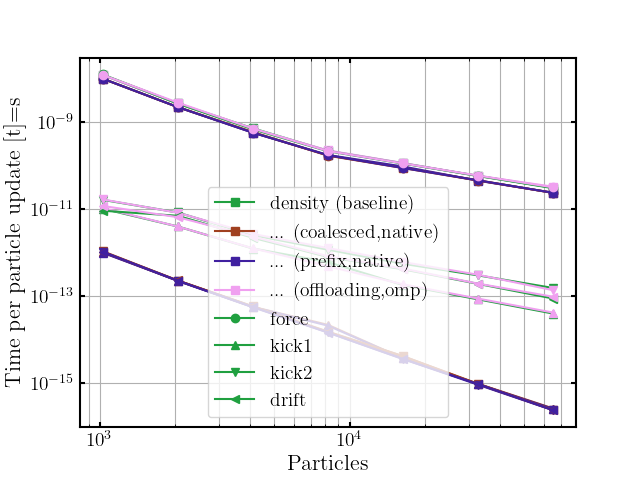
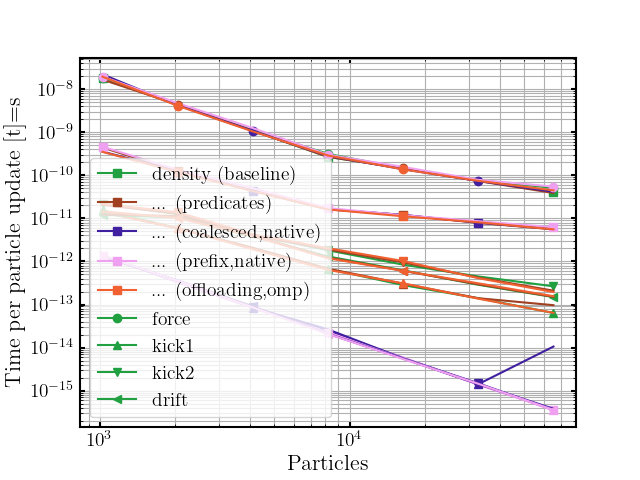
Updated prefix version

diff --git a/benchmarks/swift2/hydro/kernel-throughput/BenchmarkDriver.cpp b/benchmarks/swift2/hydro/kernel-throughput/BenchmarkDriver.cpp
@@ -212,6 +212,13 @@ void runBenchmark(int numberOfParticles) {
       );
       assessKernel(
           [&](int workItem) -> void {
+            ::swift2::kernels::forAllParticlePairs( cellMarker, workItemParticleSet[workItem], workItemParticleSet[workItem], createCoalescedMemoryIndices(), createCoalescedMemoryIndices(), ::swift2::kernels::legacy::forceKernel<globaldata::HydroPart>, ::swift2::kernels::alwaysUpdateInCellKernel<globaldata::HydroPart>, ::swift2::kernels::localParticleCanBeUpdatedInCellKernelFromAnyOtherParticle<globaldata::HydroPart>);
+          },
+          "force (predicates)",
+          numberOfParticles
+      );
+      assessKernel(
+          [&](int workItem) -> void {
             ::swift2::kernels::coalesced::forAllParticlePairs( cellMarker, workItemParticleSet[workItem], workItemParticleSet[workItem], createCoalescedMemoryIndices(), createCoalescedMemoryIndices(), ::swift2::kernels::legacy::forceKernel<globaldata::HydroPart>, ::swift2::kernels::alwaysUpdateInCellKernel<globaldata::HydroPart>, ::swift2::kernels::localParticleCanBeUpdatedInCellKernelFromAnyOtherParticle<globaldata::HydroPart>);
           },
           "force (coalesced,native)",
@@ -244,21 +251,28 @@ void runBenchmark(int numberOfParticles) {
       );
       assessKernel(
         [&](int workItem) -> void {
-          ::swift2::kernels::coalesced::forAllParticlePairs( cellMarker, workItemParticleSet[workItem], workItemParticleSet[workItem], createCoalescedMemoryIndices(), createCoalescedMemoryIndices(), ::swift2::kernels::legacy::densityKernel<globaldata::HydroPart>, ::swift2::kernels::alwaysUpdateInCellKernel<globaldata::HydroPart>, ::swift2::kernels::localParticleCanBeUpdatedInCellKernelFromAnyOtherParticle<globaldata::HydroPart>);
+          ::swift2::kernels::forAllParticlePairs( cellMarker, workItemParticleSet[workItem], workItemParticleSet[workItem], createCoalescedMemoryIndices(), createCoalescedMemoryIndices(), ::swift2::kernels::legacy::densityKernel<globaldata::HydroPart>, ::swift2::kernels::localParticleCanBeUpdatedInCellKernel<globaldata::HydroPart>, ::swift2::kernels::legacy::densityKernelPairEvaluationPredicate<globaldata::HydroPart>);
+        },
+        "density (predicates)",
+        numberOfParticles
+      );
+      assessKernel(
+        [&](int workItem) -> void {
+          ::swift2::kernels::coalesced::forAllParticlePairs( cellMarker, workItemParticleSet[workItem], workItemParticleSet[workItem], createCoalescedMemoryIndices(), createCoalescedMemoryIndices(), ::swift2::kernels::legacy::densityKernel<globaldata::HydroPart>, ::swift2::kernels::localParticleCanBeUpdatedInCellKernel<globaldata::HydroPart>, ::swift2::kernels::legacy::densityKernelPairEvaluationPredicate<globaldata::HydroPart>);
         },
         "density (coalesced,native)",
         numberOfParticles
       );
       assessKernel(
         [&](int workItem) -> void {
-          ::swift2::kernels::coalesced::prefixcheck::forAllParticlePairs( cellMarker, workItemParticleSet[workItem], workItemParticleSet[workItem], createCoalescedMemoryIndices(), createCoalescedMemoryIndices(), ::swift2::kernels::legacy::densityKernel<globaldata::HydroPart>, ::swift2::kernels::alwaysUpdateInCellKernel<globaldata::HydroPart>, ::swift2::kernels::localParticleCanBeUpdatedInCellKernelFromAnyOtherParticle<globaldata::HydroPart>);
+          ::swift2::kernels::coalesced::prefixcheck::forAllParticlePairs( cellMarker, workItemParticleSet[workItem], workItemParticleSet[workItem], createCoalescedMemoryIndices(), createCoalescedMemoryIndices(), ::swift2::kernels::legacy::densityKernel<globaldata::HydroPart>, ::swift2::kernels::localParticleCanBeUpdatedInCellKernel<globaldata::HydroPart>, ::swift2::kernels::legacy::densityKernelPairEvaluationPredicate<globaldata::HydroPart>);
         },
         "density (prefix,native)",
         numberOfParticles
       );
       assessKernel(
         [&](int workItem) -> void {
-          ::swift2::kernels::ompoffloading::forAllParticlePairs( cellMarker, workItemParticleSet[workItem], workItemParticleSet[workItem], createCoalescedMemoryIndices(), createCoalescedMemoryIndices(), ::swift2::kernels::legacy::densityKernel<globaldata::HydroPart>, ::swift2::kernels::alwaysUpdateInCellKernel<globaldata::HydroPart>, ::swift2::kernels::localParticleCanBeUpdatedInCellKernelFromAnyOtherParticle<globaldata::HydroPart>);
+          ::swift2::kernels::ompoffloading::forAllParticlePairs( cellMarker, workItemParticleSet[workItem], workItemParticleSet[workItem], createCoalescedMemoryIndices(), createCoalescedMemoryIndices(), ::swift2::kernels::legacy::densityKernel<globaldata::HydroPart>, ::swift2::kernels::localParticleCanBeUpdatedInCellKernel<globaldata::HydroPart>, ::swift2::kernels::legacy::densityKernelPairEvaluationPredicate<globaldata::HydroPart>);
         },
         "density (offloading,omp)",
         numberOfParticles
@@ -272,6 +286,13 @@ void runBenchmark(int numberOfParticles) {
           ::swift2::kernels::forAllParticles( vertexMarker, workItemParticleSet[workItem], -1, ::swift2::kernels::legacy::leapfrogKickWithGlobalTimeStepSizeWithMasking<globaldata::HydroPart>, ::swift2::kernels::alwaysUpdateInVertexKernel<globaldata::HydroPart>);
         },
         "kick1 (baseline)",
+        numberOfParticles
+      );
+      assessKernel(
+        [&](int workItem) -> void {
+          ::swift2::kernels::forAllParticles( vertexMarker, workItemParticleSet[workItem], -1, ::swift2::kernels::legacy::leapfrogKickWithGlobalTimeStepSizeWithMasking<globaldata::HydroPart>, ::swift2::kernels::alwaysUpdateInVertexKernel<globaldata::HydroPart>);
+        },
+        "kick1 (predicates)",
         numberOfParticles
       );
       assessKernel(
@@ -309,6 +330,14 @@ void runBenchmark(int numberOfParticles) {
       );
       assessKernel(
         [&](int workItem) -> void {
+          ::swift2::kernels::forAllParticles( vertexMarker, workItemParticleSet[workItem], -1, ::swift2::kernels::legacy::leapfrogKickWithGlobalTimeStepSizeWithMasking<globaldata::HydroPart>, ::swift2::kernels::alwaysUpdateInVertexKernel<globaldata::HydroPart>);
+          ::swift2::kernels::forAllParticles( vertexMarker, workItemParticleSet[workItem], -1, ::swift2::kernels::legacy::resetPredictedValuesWithMasking<globaldata::HydroPart>, ::swift2::kernels::alwaysUpdateInVertexKernel<globaldata::HydroPart>);
+        },
+        "kick2 (predicates)",
+        numberOfParticles
+      );
+      assessKernel(
+        [&](int workItem) -> void {
           ::swift2::kernels::coalesced::forAllParticles( vertexMarker, workItemParticleSet[workItem], -1, ::swift2::kernels::legacy::leapfrogKickWithGlobalTimeStepSizeWithMasking<globaldata::HydroPart>, ::swift2::kernels::alwaysUpdateInVertexKernel<globaldata::HydroPart>);
           ::swift2::kernels::coalesced::forAllParticles( vertexMarker, workItemParticleSet[workItem], -1, ::swift2::kernels::legacy::resetPredictedValuesWithMasking<globaldata::HydroPart>, ::swift2::kernels::alwaysUpdateInVertexKernel<globaldata::HydroPart>);
         },
@@ -341,6 +370,14 @@ void runBenchmark(int numberOfParticles) {
           ::swift2::kernels::forAllParticles( vertexMarker, workItemParticleSet[workItem], -1, ::swift2::kernels::legacy::leapfrogDriftWithGlobalTimeStepSizeWithMasking<globaldata::HydroPart>, ::swift2::kernels::alwaysUpdateInVertexKernel<globaldata::HydroPart>);
         },
         "drift (baseline)",
+        numberOfParticles
+      );
+      assessKernel(
+        [&](int workItem) -> void {
+          ::swift2::kernels::forAllParticles( vertexMarker, workItemParticleSet[workItem], -1, ::swift2::timestepping::resetMovedParticleMarkerWithMasking<globaldata::HydroPart>, ::swift2::kernels::alwaysUpdateInVertexKernel<globaldata::HydroPart>);
+          ::swift2::kernels::forAllParticles( vertexMarker, workItemParticleSet[workItem], -1, ::swift2::kernels::legacy::leapfrogDriftWithGlobalTimeStepSizeWithMasking<globaldata::HydroPart>, ::swift2::kernels::alwaysUpdateInVertexKernel<globaldata::HydroPart>);
+        },
+        "drift (predicates)",
         numberOfParticles
       );
       assessKernel(

diff --git a/src/swift2/kernels/legacy/Density.h b/src/swift2/kernels/legacy/Density.h
@@ -137,21 +137,78 @@ namespace swift2 {
         const Particle* activeParticle
       );
 
+
+      /**
+       * Predicate if two particles contribute towards the density checks
+       *
+       * This predicate assumes that ::swift2::kernels::localParticleCanBeUpdatedInCellKernel()
+       * holds. It then evaluates if activeParticle contributes towards
+       * localParticle. Is used by the densityKernel() to find out if the
+       * actual density calculation is to be invoked, but can also be used as
+       * explicit check in combination with densityKernelWithoutChecks().
+       *
+       * ::swift2::kernels::localParticleCanBeUpdatedInCellKernel<globaldata::HydroPart>
+       */
+      template <typename Particle>
+      bool densityKernelPairEvaluationPredicate(
+        const peano4::datamanagement::CellMarker& marker, const Particle& localParticle, const Particle& activeParticle
+      );
+
+      /**
+       * Invoke density kernel without any outer additional admissibility checks
+       *
+       * Similar to densityKernel(), but we assume that the predicates all
+       * hold, i.e. we do not check them anymore. As
+       * ::swift2::kernels::localParticleCanBeUpdatedInCellKernel(),
+       * we don't have to check anything and directly forward
+       * the call to the Swift 1 "legacy" kernel. It makes no sense to use this
+       * version in the generic pair-wise interactions, but it makes sense to
+       * combine it with coalesced memory accesses and a dedicated outer
+       * predicate.
+       *
+       * That is, a vanilla density calculation equals
+       *
+       * ~~~~~~~~~~~~~~~~~~~~~~~~~~~~~~~~~~
+       * ::swift2::kernels::forAllParticlePairs( cellMarker, workItemParticleSet[workItem], workItemParticleSet[workItem], createCoalescedMemoryIndices(), createCoalescedMemoryIndices(), ::swift2::kernels::legacy::densityKernel<globaldata::HydroPart>, ::swift2::kernels::alwaysUpdateInCellKernel<globaldata::HydroPart>, ::swift2::kernels::localParticleCanBeUpdatedInCellKernelFromAnyOtherParticle<globaldata::HydroPart>);
+       * ~~~~~~~~~~~~~~~~~~~~~~~~~~~~~~~~~~
+       *
+       * whereas we can use an optimised version such as
+       *
+       * ~~~~~~~~~~~~~~~~~~~~~~~~~~~~~~~~~~
+       * ::swift2::kernels::forAllParticlePairs( cellMarker, workItemParticleSet[workItem], workItemParticleSet[workItem], createCoalescedMemoryIndices(), createCoalescedMemoryIndices(), ::swift2::kernels::legacy::densityKernelWithoutChecks<globaldata::HydroPart>, ::swift2::kernels::localParticleCanBeUpdatedInCellKernel<globaldata::HydroPart>, ::swift2::kernels::legacy::densityKernelPairEvaluationPredicate<globaldata::HydroPart>);
+       * ~~~~~~~~~~~~~~~~~~~~~~~~~~~~~~~~~~
+       */
+      template <typename Particle>
+      void densityKernelWithoutChecks(
+        const peano4::datamanagement::CellMarker& marker,
+        Particle&                                 localParticle,
+        const Particle&                           activeParticle
+      );
+
+
+      /**
+       * Density kernel
+       *
+       * This routine forwards the function call to density_kernel(). Please
+       * consult this routine for additional information.
+       *
+       * ## Predicates and preconditions
+       *
+       * This kernel is to be used within ::swift2::kernels::coalesced::forAllParticlePairs.
+       * By default, testIfParticleCanBeUpdated is set and the routine hence uses
+       * densityKernelPredicate() and ::swift2::kernels::localParticleCanBeUpdatedInCellKernel<globaldata::HydroPart>(marker,localParticle)
+       * to find out if the particle is to be updated. If you can
+       * ensure that densityKernelPredicate() holds and ::swift2::kernels::localParticleCanBeUpdatedInCellKernel<globaldata::HydroPart>(marker,localParticle)
+       * holds as well, you can set testIfParticleCanBeUpdated
+       * to false.
+       */
       template <typename Particle>
       void densityKernel(
         const peano4::datamanagement::CellMarker& marker,
         Particle&                                 localParticle,
         const Particle&                           activeParticle
-      ) {
-        if (::swift2::kernels::
-              localParticleCanBeUpdatedInCellKernelFromAnyOtherParticle(
-                marker,
-                localParticle,
-                activeParticle
-              )) {
-          density_kernel(&localParticle, &activeParticle);
-        }
-      }
+      );
+
 
       /**
        * @todo No masking yet

diff --git a/benchmarks/swift2/hydro/kernel-throughput/print-kernel-throughput.py b/benchmarks/swift2/hydro/kernel-throughput/print-kernel-throughput.py
@@ -29,8 +29,6 @@ params = {
 mpl.rcParams.update(params) 
 
 
-global_y_value_min = 1e100
-global_y_value_max = 0 
 
 
 def read_file(file_name, 
@@ -65,7 +63,7 @@ def read_file(file_name,
 
 
 Kernels  = [ "density", "force", "kick1", "kick2", "drift" ]
-ImplementationVariant = [ "(baseline)", "(coalesced,native)", "(prefix,native)", "(offloading,omp)" ]
+ImplementationVariant = [ "(baseline)", "(predicates)", "(coalesced,native)", "(prefix,native)", "(offloading,omp)" ]
 Colors   = [ "#20a040", "#a04020", "#4020a0", "#f0a0f0", "#f06030", "#6030f0" ]
 Symbols  = [ "-s", "-o", "-^", "-v", "-<", "->" ]
 
@@ -74,6 +72,7 @@ def process_file(filename):
     print( "process file {}".format(filename) )
 
     plt.clf()
+    mpl.rcParams.update(params) 
 
     for kernel in Kernels:
       for implementation in ImplementationVariant:
@@ -92,11 +91,13 @@ def process_file(filename):
         elif ImplementationVariant[0] == implementation:
           label = kernel
           
+        MarkerSpacing = 3
         plt.plot( x_data, 
                   y_data, 
                   symbol, 
                   color=color, 
-                  label=label
+                  label=label,
+                  markevery=(ImplementationVariant.index(implementation) % MarkerSpacing,MarkerSpacing)
                 )                           
 
     plt.xlabel("Particles")
@@ -108,7 +109,7 @@ def process_file(filename):
     plt.minorticks_on()
     plt.grid(True, which='both')
     
-    plt.legend()
+    plt.legend(loc="lower left")
         
     plt.savefig(f"{filename}.pdf")
     plt.savefig(f"{filename}.png")
